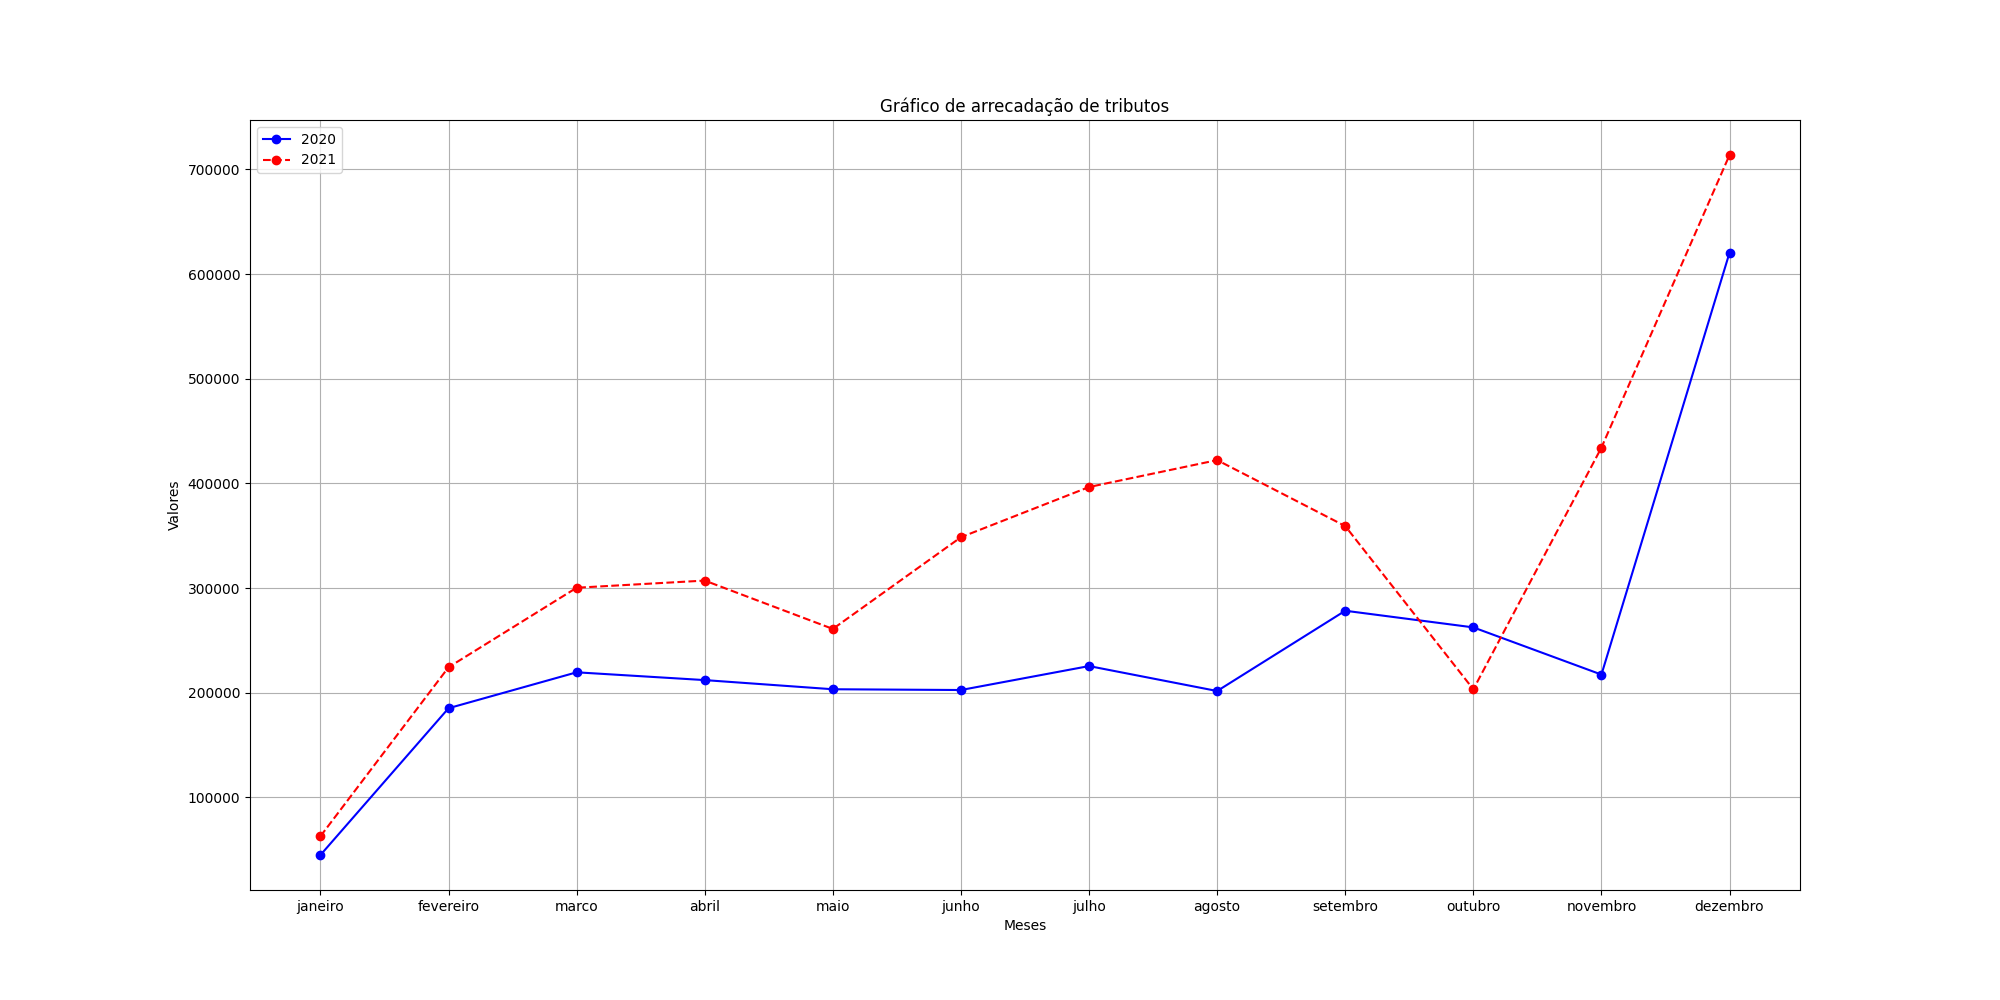
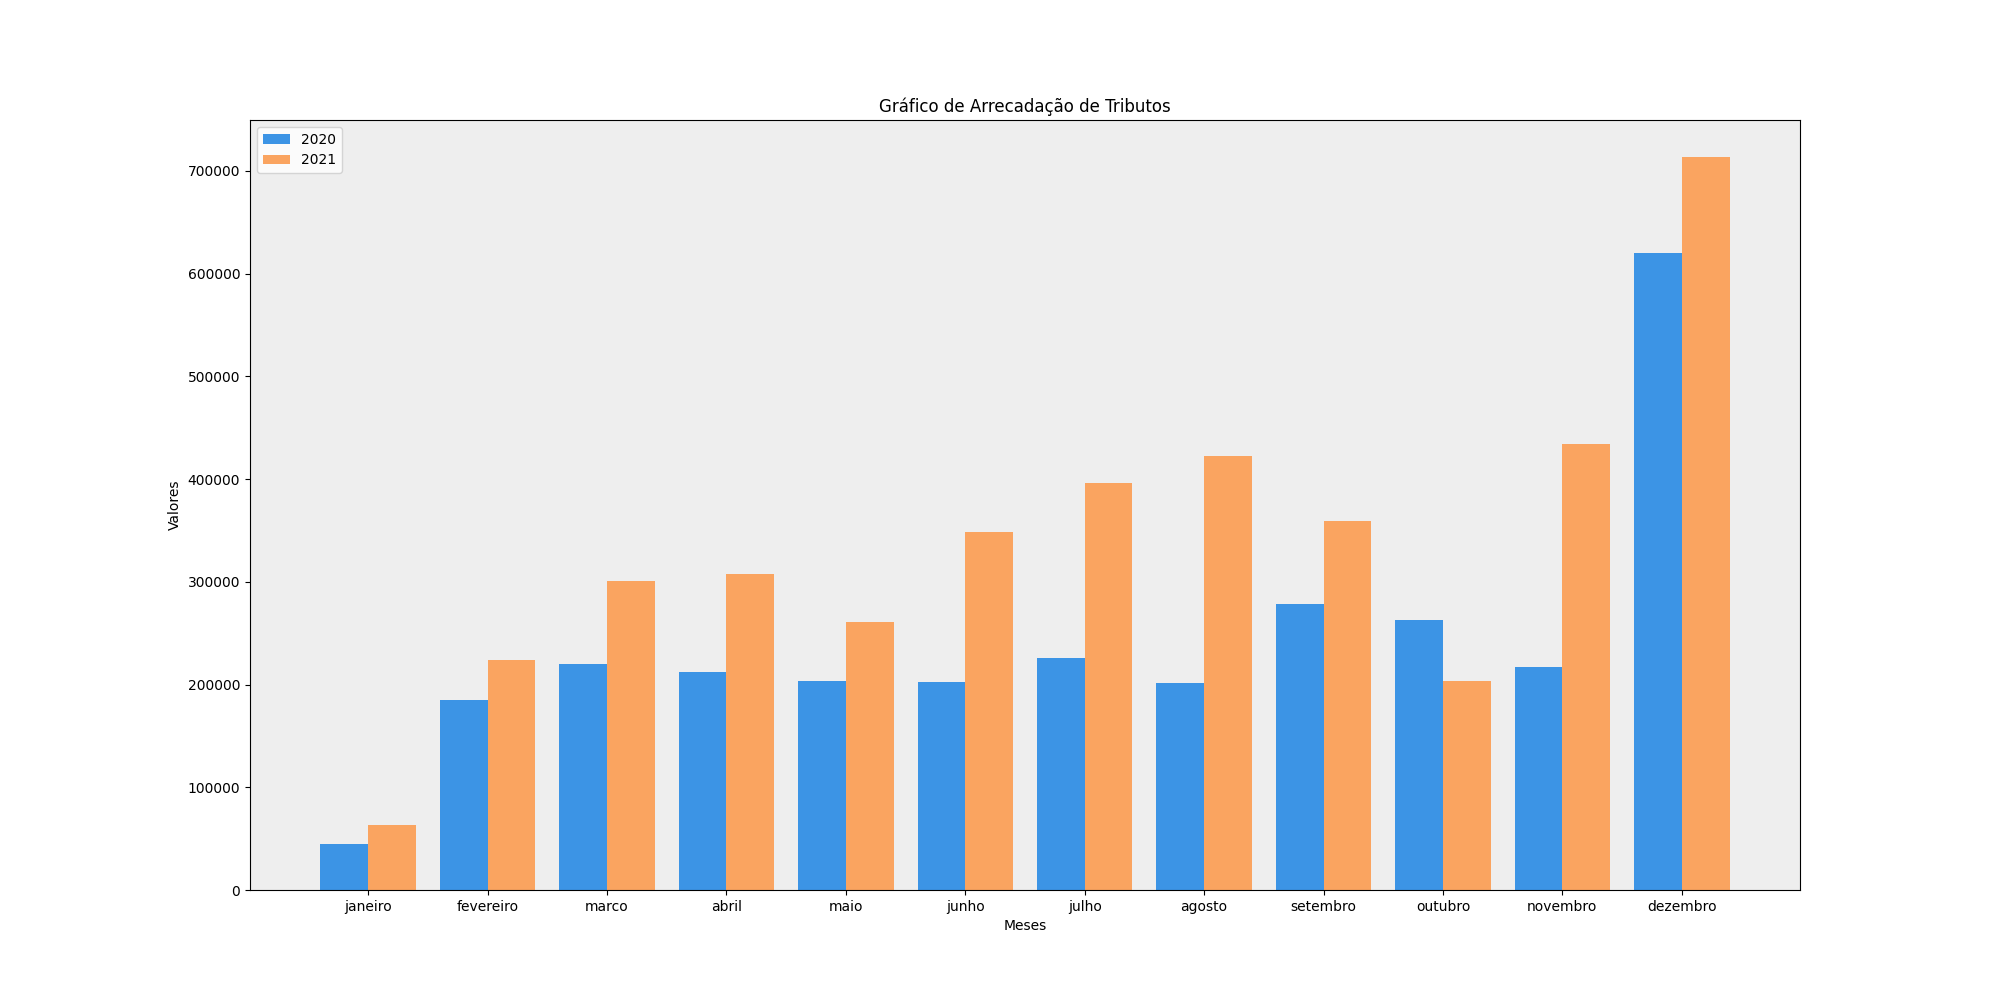
up

diff --git a/apps/grafico/templates/grafico/ficha_reports.html b/apps/grafico/templates/grafico/ficha_reports.html
@@ -29,79 +29,80 @@
                         <br>
                         <div class="row" style="margin: 0cm;">
                             <form method="get" action="{% url 'relatorio-grafico' %}" target="_blank">
-                                <label for="municipio">Município</label>
-                                <select name="municipio" id="municipio" required>
-                                    <option value="">-------------------------------</option>
-                                    {% for m in municipios %}
-                                        <option value="{{ m.pk }}" {% if m.pk|stringformat:"s" == request.GET.municipio|stringformat:"s" %} selected {% endif %}>{{ m.nome }}</option>
-                                    {% endfor %}
-                                </select>
 
-                                <br>
-
-                                <label for="receita">Receita</label>
-                                <select name="receita" id="receita" required>
-                                    <option value="">-------------------------------</option>
-                                    {% for r in receitas %}
-                                        <option value="{{ r.pk }}" {% if r.pk|stringformat:"s" == request.GET.receita|stringformat:"s" %} selected {% endif %}>{{ r.nome }}</option>
-                                    {% endfor %}
-                                </select>
-
-                                <br><br>
-
-                                <label for="ano_1">Primeiro Ano</label>
-                                <select name="ano_1" id="ano_1" required>
-                                    <option value="">-------------------------------</option>
-                                    {% for a in anos %}
-                                        <option value="{{ a.pk }}" {% if a.pk|stringformat:"s" == request.GET.ano|stringformat:"s" %} selected {% endif %}>{{ a.nome }}</option>
-                                    {% endfor %}
-                                </select>
-
-                                <br>
-
-                                <label for="ano">Segundo Ano</label>
-                                <select name="ano_2" id="ano_2" required>
-                                    <option value="">-------------------------------</option>
-                                    {% for a in anos %}
-                                        <option value="{{ a.pk }}" {% if a.pk|stringformat:"s" == request.GET.ano|stringformat:"s" %} selected {% endif %}>{{ a.nome }}</option>
-                                    {% endfor %}
-                                </select>
+                                <div>
+                                    <label for="municipio">Município</label>
+                                    <select name="municipio" id="municipio" required>
+                                        <option value="">-------------</option>
+                                        {% for m in municipios %}
+                                            <option value="{{ m.pk }}" {% if m.pk|stringformat:"s" == request.GET.municipio|stringformat:"s" %} selected {% endif %}>{{ m.nome }}</option>
+                                        {% endfor %}
+                                    </select>
+                                    
+                                    <label for="receita">Receita</label>
+                                    <select name="receita" id="receita" required>
+                                        <option value="">-------------</option>
+                                        {% for r in receitas %}
+                                            <option value="{{ r.pk }}" {% if r.pk|stringformat:"s" == request.GET.receita|stringformat:"s" %} selected {% endif %}>{{ r.nome }}</option>
+                                        {% endfor %}
+                                    </select>
+                                </div>
 
                                 <br><br>
 
-                                <label for="mes_1">Mês Inicial</label>
-                                <select name="mes_1" id="mes_1">
-                                    <option value="janeiro" selected>Janeiro</option>
-                                    <option value="fevereiro">Fevereiro</option>
-                                    <option value="marco">Março</option>
-                                    <option value="abril">Abril</option>
-                                    <option value="maio">Maio</option>
-                                    <option value="junho">Junho</option>
-                                    <option value="julho">Julho</option>
-                                    <option value="agosto">Agosto</option>
-                                    <option value="setembro">Setembro</option>
-                                    <option value="outubro">Outubro</option>
-                                    <option value="novembro">Novembro</option> 
-                                    <option value="dezembro">Dezembro</option> 
-                                </select>
+                                <div>
+                                    <label for="ano_1">Ano</label>
+                                    <select name="ano_1" id="ano_1" required>
+                                        <option value="">-------------</option>
+                                        {% for a in anos %}
+                                            <option value="{{ a.pk }}" {% if a.pk|stringformat:"s" == request.GET.ano|stringformat:"s" %} selected {% endif %}>{{ a.nome }}</option>
+                                        {% endfor %}
+                                    </select>
 
-                                <br>
-                                
-                                <label for="mes_2">Mês Final</label>
-                                <select name="mes_2" id="mes_2">
-                                    <option value="janeiro">Janeiro</option>
-                                    <option value="fevereiro">Fevereiro</option>
-                                    <option value="marco">Março</option>
-                                    <option value="abril">Abril</option>
-                                    <option value="maio">Maio</option>
-                                    <option value="junho">Junho</option>
-                                    <option value="julho">Julho</option>
-                                    <option value="agosto">Agosto</option>
-                                    <option value="setembro">Setembro</option>
-                                    <option value="outubro">Outubro</option>
-                                    <option value="novembro">Novembro</option> 
-                                    <option value="dezembro" selected>Dezembro</option> 
-                                </select>
+                                    <label for="ano">Ano</label>
+                                    <select name="ano_2" id="ano_2" required>
+                                        <option value="">-------------</option>
+                                        {% for a in anos %}
+                                            <option value="{{ a.pk }}" {% if a.pk|stringformat:"s" == request.GET.ano|stringformat:"s" %} selected {% endif %}>{{ a.nome }}</option>
+                                        {% endfor %}
+                                    </select>
+                                </div>
+
+                                <br><br>
+
+                                <div>
+                                    <label for="mes_1">Mês</label>
+                                    <select name="mes_1" id="mes_1">
+                                        <option value="janeiro" selected>Janeiro</option>
+                                        <option value="fevereiro">Fevereiro</option>
+                                        <option value="marco">Março</option>
+                                        <option value="abril">Abril</option>
+                                        <option value="maio">Maio</option>
+                                        <option value="junho">Junho</option>
+                                        <option value="julho">Julho</option>
+                                        <option value="agosto">Agosto</option>
+                                        <option value="setembro">Setembro</option>
+                                        <option value="outubro">Outubro</option>
+                                        <option value="novembro">Novembro</option> 
+                                        <option value="dezembro">Dezembro</option> 
+                                    </select>
+                                    
+                                    <label for="mes_2">Mês</label>
+                                    <select name="mes_2" id="mes_2">
+                                        <option value="janeiro">Janeiro</option>
+                                        <option value="fevereiro">Fevereiro</option>
+                                        <option value="marco">Março</option>
+                                        <option value="abril">Abril</option>
+                                        <option value="maio">Maio</option>
+                                        <option value="junho">Junho</option>
+                                        <option value="julho">Julho</option>
+                                        <option value="agosto">Agosto</option>
+                                        <option value="setembro">Setembro</option>
+                                        <option value="outubro">Outubro</option>
+                                        <option value="novembro">Novembro</option> 
+                                        <option value="dezembro" selected>Dezembro</option> 
+                                    </select>
+                                </div>
 
                                 <br><br>
 

diff --git a/apps/grafico/views.py b/apps/grafico/views.py
@@ -1,3 +1,4 @@
+from decimal import Decimal
 from django.http import HttpResponse
 from django.shortcuts import get_object_or_404, redirect, render
 from django.urls import reverse, reverse_lazy
@@ -5,6 +6,8 @@ from django.views.generic import View, TemplateView
 from django.views.generic.edit import CreateView, UpdateView, DeleteView
 from django.views.generic.list import ListView
 from django.contrib.auth.mixins import LoginRequiredMixin
+from matplotlib.patches import FancyBboxPatch
+import numpy as np
 from .models import Ficha, ValorMes
 from apps.municipios.models import Municipio
 from .models import Receita, Ano
@@ -248,11 +251,19 @@ class Relatorios(LoginRequiredMixin, TemplateView):
         context['anos'] = Ano.objects.all()
         return context
 
+def rounded_bar(ax, x, height, width=0.4, color='b'):
+    """Cria uma barra com bordas arredondadas."""
+    # Cria um retângulo com cantos arredondados
+    bar = FancyBboxPatch((x - width / 2, 0), width, height, boxstyle="round,pad=0.05", color=color)
+    ax.add_patch(bar)
+
+
 class GerarRelatorioGrafico(LoginRequiredMixin, View):
     def get(self, request, *args, **kwargs):
         pdf = FPDF()
         pdf.add_page()
 
+        # Layout do gráfico, criado no canva
         pdf.image('static/img/layout.png', 0, 0, 210, 297)
 
         municipio_id= request.GET.get('municipio') # -> Retorna o ID do município
@@ -296,9 +307,9 @@ class GerarRelatorioGrafico(LoginRequiredMixin, View):
 
                     indice_filtro_1, indice_filtro_2 = meses_list.index(mes_1), meses_list.index(mes_2)
 
-                    meses_1 = meses_list[indice_filtro_1:indice_filtro_2 +1]
+                    meses = meses_list[indice_filtro_1:indice_filtro_2 +1]
 
-                    valores_1 = list(objeto[mes] for mes in meses_1 )           
+                    valores_1 = list(objeto[mes] for mes in meses )           
 
         else:
             valores_1 = valores
@@ -325,31 +336,41 @@ class GerarRelatorioGrafico(LoginRequiredMixin, View):
 
                     indice_filtro_1, indice_filtro_2 = meses_list.index(mes_1), meses_list.index(mes_2)
 
-                    meses_2 = meses_list[indice_filtro_1:indice_filtro_2 +1]
+                    meses = meses_list[indice_filtro_1:indice_filtro_2 +1]
 
-                    valores_2 = list(objeto[mes] for mes in meses_2 )  
+                    valores_2 = list(objeto[mes] for mes in meses )  
         else:
             valores_2 = valores
 
-        # # Configurações do gráfico
+        # Configurações do gráfico, largura e Altura
         plt.figure(figsize=(20,10))
 
-        # Gráfico de linhas ao invés de barras
-        plt.plot(meses_1, valores_1, marker='o', linestyle='-', color='b', label=ano_1)
-        plt.plot(meses_2, valores_2, marker='o', linestyle='--', color='r', label=ano_2)
+        x = np.arange(len(meses))  # Posiciona os meses
+        largura = 0.40  # Largura das barras(ajustável)
+
+        # Gráfico de barras 
+        plt.bar(x - largura/2, valores_1, width=largura, color='#3c94e5', label=ano_1)   # Ajusta para a esquerda
+        plt.bar(x + largura/2, valores_2, width=largura, color='#faa460', label=ano_2)  # Ajusta para a direita
+
+        # # Gráfico de linhas
+        # plt.plot(meses_1, valores_1, marker='o', linestyle='-', color='b', label=ano_1)
+        # plt.plot(meses_2, valores_2, marker='o', linestyle='--', color='r', label=ano_2)
+
+        # Alterar a cor de fundo da área do gráfico
+        plt.gca().set_facecolor('#eeeeee') 
 
         # Título e rótulos
-        plt.title('Gráfico de arrecadação de tributos')
+        plt.title('Gráfico de Arrecadação de Tributos')
         plt.ylabel('Valores')
         plt.xlabel('Meses')
-        plt.legend()  # Exibir legenda para identificar cada ano
-        plt.grid(True)  # Adicionar grade
+        plt.xticks(x, meses)  # Rótulos dos meses
+        plt.legend()  # Exibir legenda
 
-       # Verificar como criar o gráfico como uma imagem temporária apenas para ser incluida no relatório, depois excluir.  <<======
-        plt.savefig('static/img/grafico.png')
-        
-        plt.close()
+        # Salvar o gráfico como imagem
+        plt.savefig('static/img/grafico.png')  # Salva o gráfico
+        plt.close()  # Fecha a figura para liberar memória
 
+        # Imagem do gráfico
         pdf.image('static/img/grafico.png', -10, 40, 230) #x=30, y=40, tamanho imagem=200
 
         pdf.set_font("Arial", size=12)  # Defina a fonte e o tamanho
